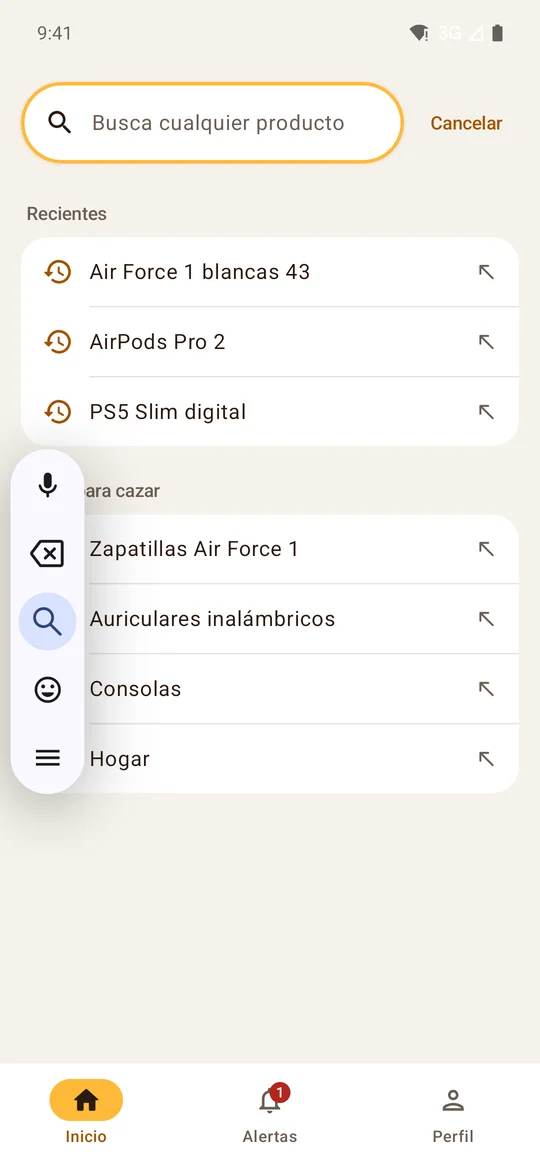
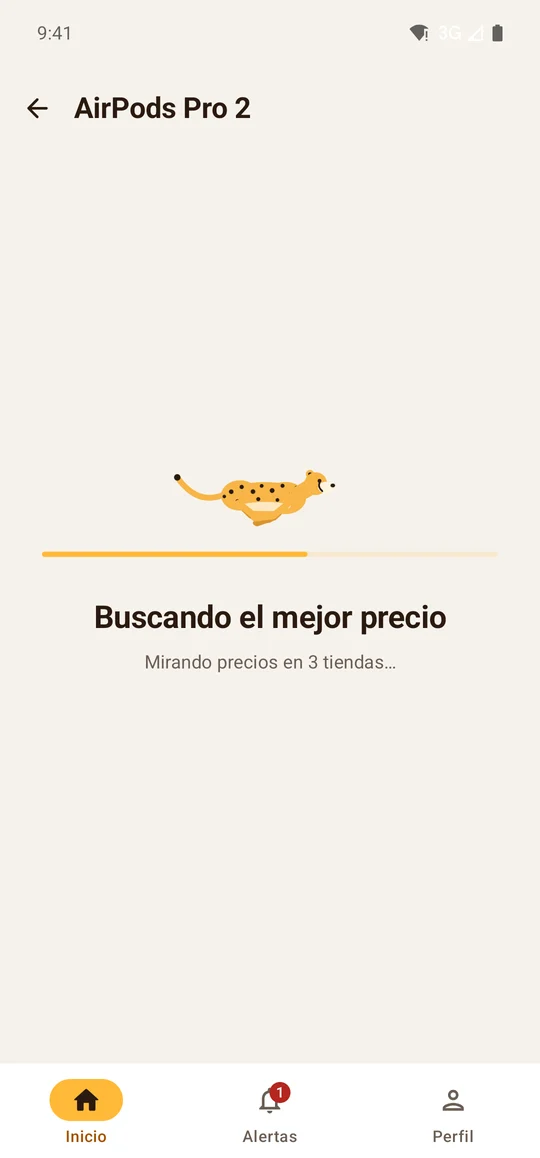
Móvil sin desbordes; Chita buscando; portada con Inicio y resultados

diff --git a/estilo.css b/estilo.css
@@ -25,6 +25,9 @@ body {
   -webkit-font-smoothing: antialiased;
 }
 img { display: block; max-width: 100%; }
+html, body { overflow-x: clip; }
+/* En rejilla, un hijo no puede ser más ancho que su columna (si no, el móvil se desborda). */
+.hero > *, .features__grid > *, .spotlight > *, .benefits > *, .footer__inner > * { min-width: 0; }
 a { color: inherit; }
 h1, h2, h3 { margin: 0; letter-spacing: -0.02em; }
 
@@ -211,6 +214,10 @@ details a { color: var(--cinnamon); }
   .nav__stores [data-store="android"] { display: none; }
   .hero { padding-bottom: 72px; }
   .hero__media { height: 440px; }
+  .phone--back { left: 0; }
+  .phone--front { right: 0; }
+  .chip--ship { left: 4px; top: 12px; }
+  .chip--price { right: 4px; top: 70px; }
   .phone { width: 200px; border-radius: 32px; padding: 7px; }
   .phone img { border-radius: 26px; }
   .phone--flat { width: 250px; }

diff --git a/index.html b/index.html
@@ -58,7 +58,7 @@
     </div>
 
     <div class="hero__media" aria-hidden="true">
-      <div class="phone phone--back"><img src="img/hunting.webp" alt=""></div>
+      <div class="phone phone--back"><img src="img/home.webp" alt=""></div>
       <div class="phone phone--front"><img src="img/results.webp" alt=""></div>
 
       <span class="chip chip--price"><b>89,99 €</b> mejor precio</span>
